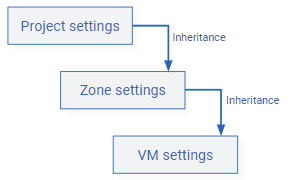
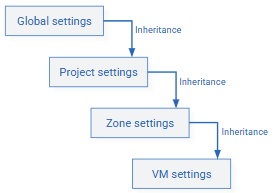
b/519144143 Documentation changes for 2.50 (#1715)
* Add Ctrl+Shift+C/V to list of keyboard shortcuts
* Include global settings in diagram

Changed region(s): [[0.0, 0.0278, 0.9855, 1.0]]

diff --git a/doc/site/sources/docs/keyboard-shortcuts.md b/doc/site/sources/docs/keyboard-shortcuts.md
@@ -186,11 +186,19 @@
   </tr>
   <tr>
    <td>Copy selected text</td>
-   <td><code>Ctrl + C</code> or <code>Ctrl + Insert</code></td>
+   <td>
+    <code>Ctrl + Shift + C</code><br/>
+	<code>Ctrl + C</code> <span title="You can disable this shortcut in Tools &gt; Options &gt; Terminal">𝒊</span><br/>
+	<code>Ctrl + Insert</code> <span title="You can disable this shortcut in Tools &gt; Options &gt; Terminal">𝒊</span>
+   </td>
   </tr>
   <tr>
    <td>Paste</td>
-   <td><code>Ctrl + V</code> or <code>Shift + Insert</code></td>
+   <td>
+    <code>Ctrl + Shift + V</code><br/>
+	<code>Ctrl + V</code> <span title="You can disable this shortcut in Tools &gt; Options &gt; Terminal">𝒊</span><br/>
+	<code>Shift + Insert</code> <span title="You can disable this shortcut in Tools &gt; Options &gt; Terminal">𝒊</span>
+   </td>
   </tr>
   <tr>
    <td>Scroll to top/bottom</td>